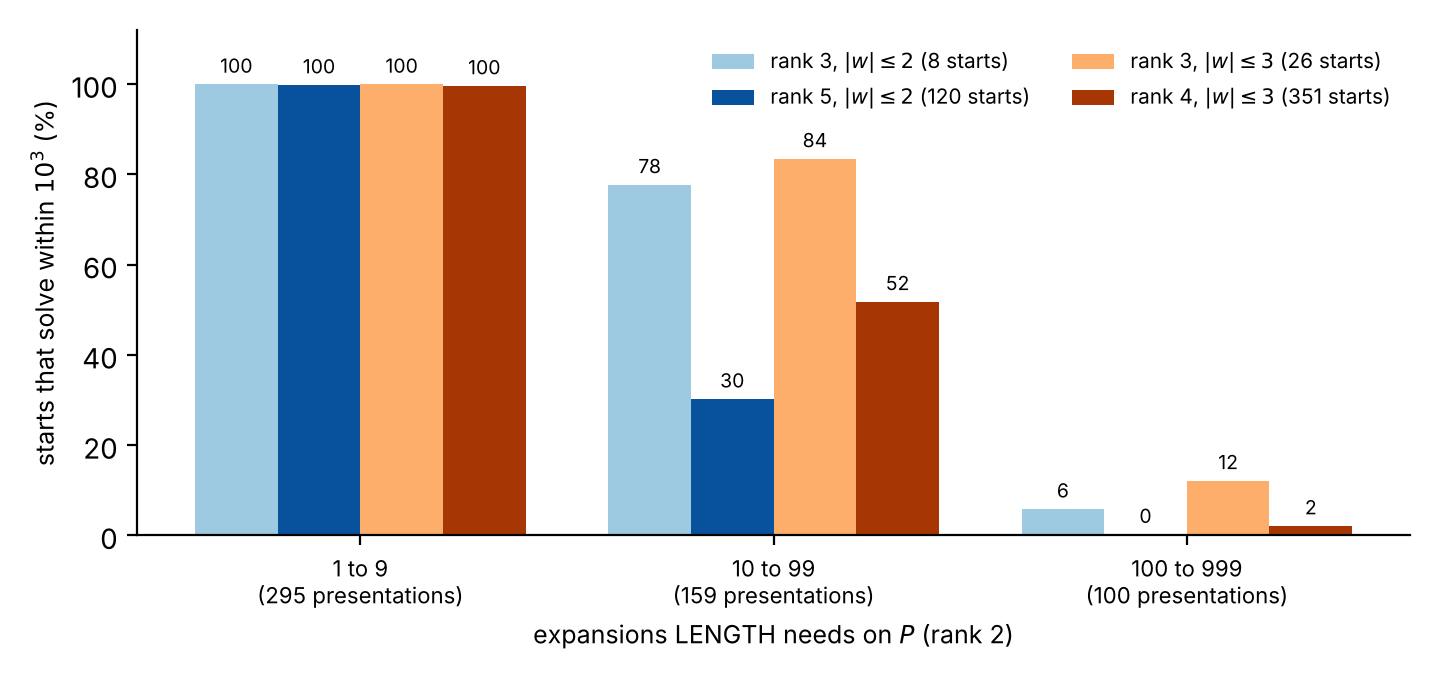
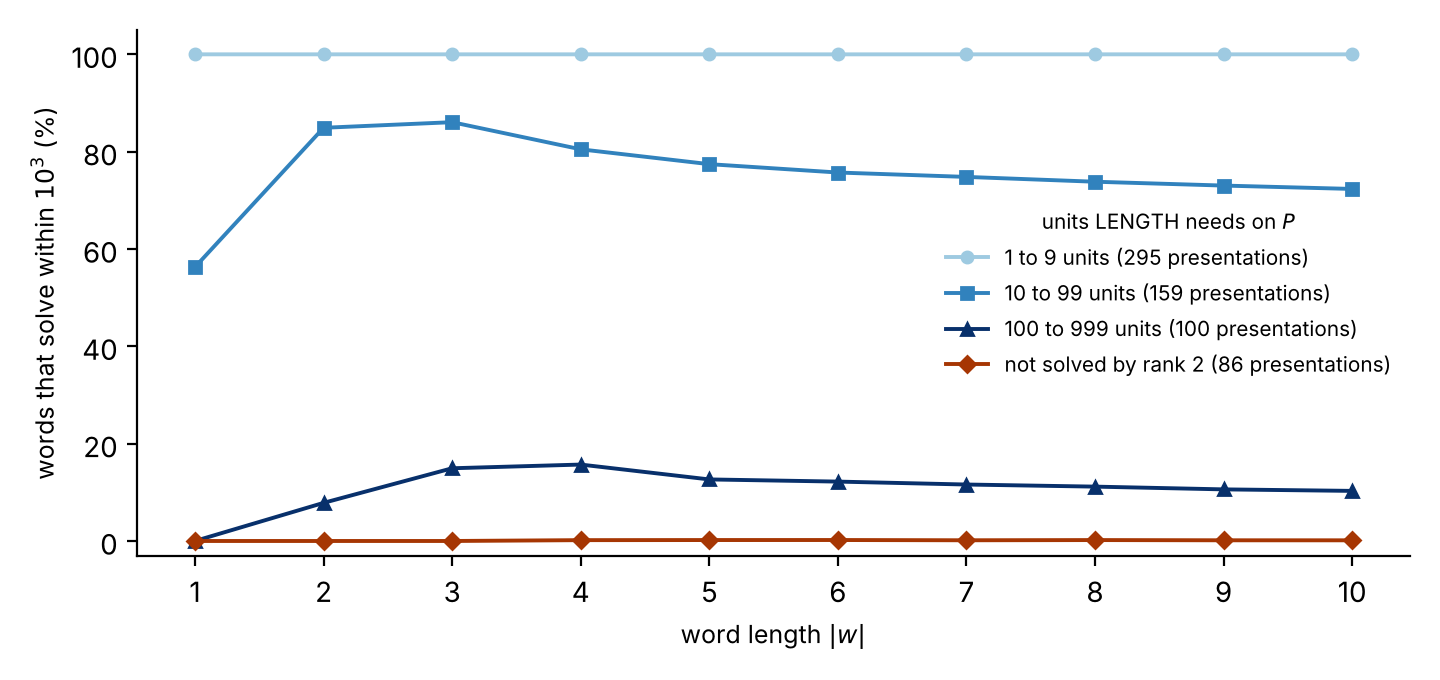
paper: drop ranks 4 and 5 from the naive stable search; rank-3 split figure
Claude-Session: https://claude.ai/code/session_01AdAbRuZRQ5MkX3g2nL8FXv

diff --git a/paper/avi.tex b/paper/avi.tex
@@ -320,17 +320,11 @@ priority $\lambda$. For $k=0$ it is LENGTH on $P$, the rank-$2$ baseline.
 \paragraph{Setup.} All searches are on the $640$ presentations of MS640, with a budget of $10^3$ units per search
 unless stated otherwise. A \emph{start} is a choice of the words $w_1,\dots,w_k$ of Definition~\ref{def:stab}, and one
 search is one run of the naive stable search from one start on one presentation.
-\begin{itemize}
-  \item \emph{Rank 3} ($k=1$): every freely reduced word $w$ of length $1$ to $10$, taken up to inversion, that is
-  $59{,}048$ words. The words of length $1$ to $7$ are also run at a budget of $10^4$ units.
-  \item \emph{Rank 4} ($k=2$): every unordered pair, repetition allowed, of the $26$ words of length at most $3$, that
-  is $351$ starts.
-  \item \emph{Rank 5} ($k=3$): every unordered triple, repetition allowed, of the $8$ words of length at most $2$, that
-  is $120$ starts.
-\end{itemize}
-The construction of these families, and the derivation of their sizes, are given in Appendix~\ref{app:stable}.
+The rank-$3$ starts ($k=1$) are the freely reduced words $w$ of length $1$ to $10$, taken up to inversion, that is
+$59{,}048$ words; the words of length $1$ to $7$ are also run at a budget of $10^4$ units. The construction of these
+words, and the derivation of their number, are given in Appendix~\ref{app:stable}.
 
-For a set of words we report three things; for ranks 4 and 5, read start for word. \emph{Solved}: the share of its
+For a set of words we report three things. \emph{Solved}: the share of its
 searches $(P,w)$ that solve $P$ within the budget, that is, the chance that a random word of the set solves a random
 presentation. For $|w|=1$: $2$ words on $640$ presentations are $1{,}280$ searches, $769$ solve, so $60.1\%$.
 \emph{Best fixed word}: the most presentations solved by a single word of the set, chosen with hindsight.
@@ -389,48 +383,16 @@ state already popped, up to $z=x$. Where rank 2 solves and rank 3 fails, the $10
 different states, while rank 2 needs a median of $116$ pops.
 
 
-\paragraph{Ranks 4 and 5.} Table~\ref{tab:stable_ranks} compares each of ranks $4$ and $5$ with rank $3$ on the
-same pool of words: rank $4$ with rank $3$ on the $26$ words of length at most $3$, and rank $5$ with rank $3$ on the
-$8$ words of length at most $2$. Rank $4$ and rank $5$ are not compared with each other, since their pools differ. On
-the same words, each additional generator lowers every measure, although ranks $4$ and $5$ offer many more starts: a
-random start solves $59.1\%$ of the presentations against $68.7\%$ at rank $3$, and $53.6\%$ against $66.3\%$; some
-start solves $506$ presentations against $516$, and $416$ against $472$; and the best fixed start solves $454$ against
-$478$, and $376$ against $449$. No start at any rank solves a presentation that rank $2$ fails to solve within $10^3$
-units. Figure~\ref{fig:stable_split} shows where the loss occurs. Where LENGTH needs fewer than $10$ units on $P$,
-almost every start solves. Where it needs $10$ to $99$ units, $52\%$ of the rank-$4$ starts and $30\%$ of the
-rank-$5$ starts solve, against $84\%$ and $78\%$ at rank $3$. Where it needs $100$ to $999$ units, almost no start
-solves.
-
-\begin{table}[ht]
-\centering
-\small
-\begin{tabular}{lrrrr}
-\toprule
-& \multicolumn{2}{c}{words of length $\le3$} & \multicolumn{2}{c}{words of length $\le2$}\\
-\cmidrule(lr){2-3}\cmidrule(lr){4-5}
-& rank 3 & rank 4 & rank 3 & rank 5\\
-\midrule
-starts per presentation & $26$ & $351$ & $8$ & $120$\\
-a random start solves & $68.7\%$ & $59.1\%$ & $66.3\%$ & $53.6\%$\\
-a random start needs fewer units than rank 2 & $0.6\%$ & $0.2\%$ & $0.8\%$ & $0.0\%$\\
-presentations solved by some start & $516$ & $506$ & $472$ & $416$\\
-\quad gained over rank 2 & $0$ & $0$ & $0$ & $0$\\
-\quad lost by every start & $38$ & $48$ & $82$ & $138$\\
-best fixed start & $478$ & $454$ & $449$ & $376$\\
-\bottomrule
-\end{tabular}
-\caption{Ranks $3$, $4$ and $5$ on MS640 at a budget of $10^3$ units; rank $2$ solves $554$ presentations. A random
-start: the share of a presentation's starts, averaged over the $640$ presentations; a solve where rank $2$ fails
-counts as fewer units. Gained: solved by some start and not by rank $2$. Lost: solved by rank $2$ and by no start.}
-\label{tab:stable_ranks}
-\end{table}
+Figure~\ref{fig:stable_split} shows where the loss occurs. Where LENGTH needs fewer than $10$ units on $P$, every
+word solves. Where it needs $10$ to $99$ units, between $56.3\%$ and $86.1\%$ of the words of each length solve, and
+where it needs $100$ to $999$ units, at most $15.7\%$ do. On the $86$ presentations that rank $2$ does not solve, at
+most $0.2\%$ of the words of each length solve.
 
 \begin{figure}[ht]
 \centering
 \includegraphics[width=\textwidth]{figures/stable_ranks_split.png}
-\caption{The share of starts that solve within $10^3$ units at ranks $3$, $4$ and $5$, with the $554$ presentations
-that rank $2$ solves grouped by the number of units LENGTH needs on $P$. On the $86$ presentations that rank $2$ does
-not solve, no start solves.}
+\caption{The share of the words of length $|w|$ that solve within $10^3$ units at rank $3$ on MS640, with the
+presentations grouped by the number of units LENGTH needs on $P$ (rank $2$).}
 \label{fig:stable_split}
 \end{figure}
 

diff --git a/paper/figsrc/stable_ranks_fig.py b/paper/figsrc/stable_ranks_fig.py
@@ -1,8 +1,10 @@
-"""Figure stable_ranks_split.png: naive stable search at ranks 3, 4 and 5 on MS640, budget 10^3.
+"""Figure stable_ranks_split.png: naive stable search at rank 3 on MS640, budget 10^3.
 
-Reads the rank-n brute-force arrays of branch rank3/brute-force-baseline
-(results/stable_ac/rank3_bf/: rank3_bf_ms640_b1000_cap24_L{1,2,3}.npz, rankn_bf_ms640_b1000_cap24_r{4,5}.npz)
-from the directory given as the first argument, and writes the figure to the second.
+Reads the rank-3 brute-force arrays of branch rank3/brute-force-baseline
+(results/stable_ac/rank3_bf/: rank3_bf_ms640_b1000_cap24_L{1..10}.npz, and the rank-2 control from
+rankn_bf_ms640_b1000_cap24_r4.npz, field base) from the directory given as the first argument, and
+writes the figure to the second. For each word length it plots the share of the (presentation, word)
+searches that solve, with the presentations grouped by the units LENGTH needs on P.
 """
 import sys
 import numpy as np
@@ -11,39 +13,30 @@ matplotlib.use("Agg")
 import matplotlib.pyplot as plt
 
 src, out = sys.argv[1], sys.argv[2]
-r4 = np.load(f"{src}/rankn_bf_ms640_b1000_cap24_r4.npz")
-r5 = np.load(f"{src}/rankn_bf_ms640_b1000_cap24_r5.npz")
-L = [np.load(f"{src}/rank3_bf_ms640_b1000_cap24_L{i}.npz") for i in (1, 2, 3)]
-base = r4["base"]
+ctl = np.load(f"{src}/rankn_bf_ms640_b1000_cap24_r4.npz")
+base = ctl["base"]
 csol, cn = base[:, 0] == 1, base[:, 1]
-p3 = np.concatenate([l["path_len"] for l in L], 1)
-methods = [
-    ("rank 3, $|w|\\leq2$ (8 starts)", p3[:, :8]),
-    ("rank 5, $|w|\\leq2$ (120 starts)", r5["path_len"]),
-    ("rank 3, $|w|\\leq3$ (26 starts)", p3),
-    ("rank 4, $|w|\\leq3$ (351 starts)", r4["path_len"]),
+Ls = list(range(1, 11))
+P = []
+for i in Ls:
+    d = np.load(f"{src}/rank3_bf_ms640_b1000_cap24_L{i}.npz")
+    assert (d["pres_ids"] == ctl["pres_ids"]).all()
+    P.append(d["path_len"] >= 0)
+groups = [
+    ("1 to 9 units", csol & (cn >= 1) & (cn <= 9), "#9ecae1", "o"),
+    ("10 to 99 units", csol & (cn >= 10) & (cn <= 99), "#3182bd", "s"),
+    ("100 to 999 units", csol & (cn >= 100) & (cn <= 999), "#08306b", "^"),
+    ("not solved by rank 2", ~csol, "#a63603", "D"),
 ]
-groups = [("1 to 9", 1, 9), ("10 to 99", 10, 99), ("100 to 999", 100, 999)]
-colors = ["#9ecae1", "#08519c", "#fdae6b", "#a63603"]
-
 fig, ax = plt.subplots(figsize=(7.2, 3.4), dpi=200)
-w = 0.2
-for k, (lab, pl) in enumerate(methods):
-    vals = []
-    for _, lo, hi in groups:
-        m = csol & (cn >= lo) & (cn <= hi)
-        vals.append(100 * (pl[m] >= 0).mean(axis=1).mean())
-    x = np.arange(len(groups)) + (k - 1.5) * w
-    bars = ax.bar(x, vals, w, label=lab, color=colors[k])
-    for xi, v in zip(x, vals):
-        ax.text(xi, v + 1.5, f"{v:.0f}", ha="center", va="bottom", fontsize=7)
-ns = [int((csol & (cn >= lo) & (cn <= hi)).sum()) for _, lo, hi in groups]
-ax.set_xticks(range(len(groups)))
-ax.set_xticklabels([f"{g[0]}\n({n} presentations)" for g, n in zip(groups, ns)], fontsize=8)
-ax.set_xlabel("expansions LENGTH needs on $P$ (rank 2)", fontsize=9)
-ax.set_ylabel("starts that solve within $10^3$ (%)", fontsize=9)
-ax.set_ylim(0, 112)
+for lab, m, c, mk in groups:
+    vals = [100 * p[m].mean() for p in P]
+    ax.plot(Ls, vals, marker=mk, ms=4, lw=1.4, color=c, label=f"{lab} ({int(m.sum())} presentations)")
+ax.set_xticks(Ls)
+ax.set_xlabel("word length $|w|$", fontsize=9)
+ax.set_ylabel("words that solve within $10^3$ (%)", fontsize=9)
+ax.set_ylim(-3, 105)
 ax.spines[["top", "right"]].set_visible(False)
-ax.legend(fontsize=7.5, frameon=False, ncol=2, loc="upper right")
+ax.legend(fontsize=7.5, frameon=False, loc="center right", title="units LENGTH needs on $P$", title_fontsize=7.5)
 fig.tight_layout()
 fig.savefig(out, facecolor="white")

diff --git a/paper/appendix/appendix.tex b/paper/appendix/appendix.tex
@@ -321,34 +321,8 @@ $yx^{-1}$ and $x^{-1}y$.
 $59{,}048\times640=37{,}790{,}720$ searches at a budget of $10^3$ units. At a budget of $10^4$ units only the $2{,}186$
 words of length $1$ to $7$ are run, which gives $2{,}186\times640=1{,}399{,}040$ searches.
 
-\paragraph{Ranks 4 and 5.} A rank-$4$ start adds two generators, $\pres{x,y,z_1,z_2}{r_1,r_2,z_1^{-1}w_1,z_2^{-1}w_2}$.
-Exchanging $z_1$ and $z_2$ exchanges $w_1$ and $w_2$ and leaves the search unchanged, so the order of the two words is
-immaterial; the two words may coincide. A start is therefore a multiset of two words from a pool of $m$ words, and the
-number of such multisets is
-\[
-\binom{m+1}{2}=\frac{m(m+1)}{2}.
-\]
-With the $m=26$ words of length at most $3$ this gives $\binom{27}{2}=351$ starts, that is $325$ pairs of distinct words
-and $26$ pairs of equal words. A rank-$5$ start adds three generators, and in the same way a start is a multiset of three
-words, of which there are $\binom{m+2}{3}$. With the $m=8$ words of length at most $2$ this gives $\binom{10}{3}=120$
-starts. Over MS640 these are $351\times640=224{,}640$ and $120\times640=76{,}800$ searches, all at a budget of $10^3$
-units.
-
-\paragraph{Measures.} For a set of starts and a presentation $P$, rank $2$ denotes LENGTH on $P$ with the same budget.
-\begin{itemize}
-  \item \emph{A random start solves}: the share of the starts of $P$ that solve $P$ within the budget, averaged over the
-  $640$ presentations. It is the probability that a start chosen uniformly at random solves a presentation chosen
-  uniformly at random.
-  \item \emph{A random start needs fewer units than rank 2}: the share of the starts of $P$ that solve $P$ in fewer
-  units than rank $2$, or solve $P$ where rank $2$ fails, averaged over the presentations.
-  \item \emph{Some start}: the number of presentations solved by at least one start of the set. It presupposes the
-  right start for each presentation, so it bounds what any choice of start can achieve and is not itself a method.
-  \item \emph{Best fixed start}: the largest number of presentations solved by a single start, applied to every
-  presentation and chosen with hindsight.
-\end{itemize}
-
 \paragraph{Length bound.} Every search uses the length bound $c=24$ of Definition~\ref{def:greedy}. In none of the
-$40{,}098{,}032$ searches could the bound have changed the search: no child that it discarded would have been removed
+$39{,}189{,}760$ searches could the bound have changed the search: no child that it discarded would have been removed
 from the heap before the search ended.
 
 % Place every remaining figure of the appendix before the references.

diff --git a/paper/README.md b/paper/README.md
@@ -27,11 +27,11 @@ number in Table `tab:smk` (`python3 paper/figsrc/smk_separation.py`, about 6 s, 
 clustering study (branch `claude/abelianized-exponents-verify-1i6muh`, `experiments/clustering/rank_signals.py`,
 `results/clustering/signal_ranking.json`): $S$ 0.912, MK 0.860, length 0.809, exactly.
 
-`stable_ranks_split.png` (ranks 3, 4, 5 by difficulty) comes from `figsrc/stable_ranks_fig.py`, which reads the rank-n arrays of branch `rank3/brute-force-baseline` (`results/stable_ac/rank3_bf/`).
+`stable_ranks_split.png` (rank 3 by word length and difficulty) comes from `figsrc/stable_ranks_fig.py`, which reads the rank-3 arrays of branch `rank3/brute-force-baseline` (`results/stable_ac/rank3_bf/`).
 
 ## Open issues in `avi.tex`
 
-- `sec:hybrid` reference removed by Truett; `fig:stable_split` and `tab:stable_ranks` now exist (5 Nov).
+- `sec:hybrid` reference removed by Truett; `fig:stable_split` now shows rank 3 only; ranks 4 and 5 were removed at Truett's request (5 Nov).
 - The paragraph "The best image passes LENGTH at every budget, but the margin falls from 100 to 6 ..." appears twice in
   the CoV section, once saying a random image is worse than P (at 10^4) and once saying it is often cheaper (at 10^3).
   Keep one.
